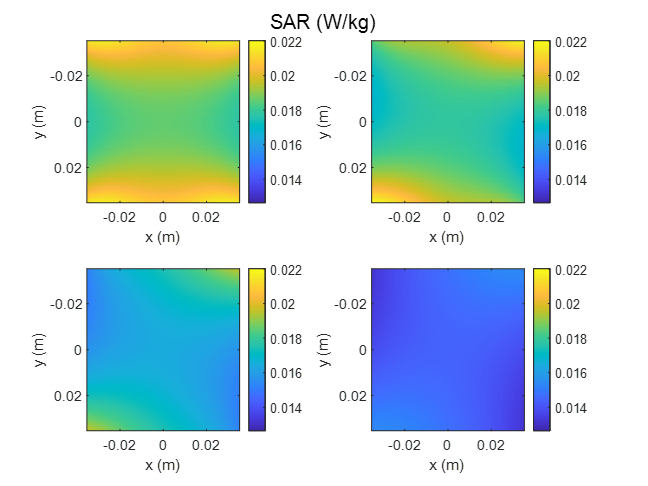
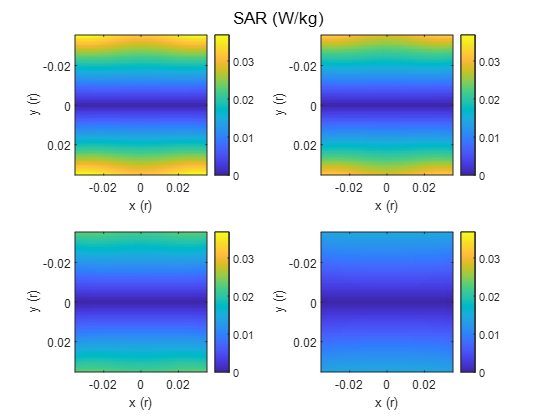
Final Changes 20092024

diff --git a/Chapters/ChapterCoils.tex b/Chapters/ChapterCoils.tex
@@ -122,10 +122,16 @@ The varying magnetic field gives rise to electric fields inside the tissue being
 Where $\sigma$ is the conductivity of the tissue. Modelling is important to ensure each coil built is safe to use with humans. The magnetic field can be modelled using the Biot-Savart law given as 
 
 \begin{equation}
-    \mathbf{B(r)} = \frac{\mu_0}{4\pi}\frac{\mathbf{J}dV \times \mathbf{r}}{|\mathbf{r}|^3}
+    \mathbf{B(r)} = \frac{\mu_0}{4\pi}\int_v\frac{\mathbf{J(\mathbf{r})} \times \mathbf{r}}{|\mathbf{r}|^3}dv
 \end{equation}
 
-Where $\mathbf{J}$ is the current density, $dV$ is the volume element from the coil and $\mathbf{r}$ is the position vector from $dV$. The electric field $E$ can then be calculated from the $A$ vector potential which is defined by the magnetic field $B$ being the curl of the vector potential ($\mathbf{B} = \nabla \times \mathbf{A}$). $E$ can then be found from $A$ following
+Where $\mathbf{J}$ is the current density, $dV$ is the volume element from the coil and $\mathbf{r}$ is the position vector from $dv$. The electric field $E$ can then be calculated from the $A$ vector potential which is defined by the magnetic field $B$ being the curl of the vector potential ($\mathbf{B} = \nabla \times \mathbf{A}$). $\mathbf{A}$ can therefore be analytically expressed as 
+
+\begin{equation}
+    \mathbf{A(r)} = \frac{\mu_0}{4\pi}\int_v \frac{\mathbf{J(r)}}{\mathbf{r}}dv
+\end{equation}
+
+$E$ can then be found from $A$ following
 
 \begin{equation}
     \mathbf{E} = -\frac{d\mathbf{A}}{dT}
@@ -156,8 +162,7 @@ After the building of each coil, the coil is placed around a phantom and spectra
 
 A surface coil is the simplest and most basic coil to design, where the coil often forms a simple circular loop. The magnetic field is largest on axis and decreases, with distance from the coil. Therefore the field is spatially inhomogeneous which is why this coil design is often used for non-localised spectroscopy, where the localisation of the signal is down to the placement of the coil. The penetration depth of the magnetic field for a surface coil is approximately equal to the diameter of the coil \cite{Gruber2018RFNonphysicists}, and therefore a surface coil is sensitive to regions closest to the coil. 
 
-
-The surface coils used for data collection were built for use in the study described in Chapter \ref{Chap:Lipid}. The first coil is a small 5 cm coil with two loops of copper wire with a tuning capacitance of 173.4 pF and a matching capacitance of 11 pF which is split over both wires of the loop to keep it balanced. The coil is made small to maximise the sensitivity to signal from subcutaneous fat in the calf. Maps for the $B_y, B_\rho, |E|$ and \ac{SAR} maps for this coil are shown in Fig. \ref{fig:coils:Calf_Maps}, the maximum \ac{SAR} of this coil was <20 W/kg. This was calculated assuming the target $B_1$ of 40 $\mu$T occurs 4 cm from coil on coil axis, and the conductivity ($\sigma$) of the muscle is 0.64 S/m.
+The surface coils used for data collection were built for use in the study described in Chapter \ref{Chap:Lipid}. The first coil is a small 5 cm coil with two loops of copper wire with a tuning capacitance of 173.4 pF and a matching capacitance of 11 pF which is split over both wires of the loop to keep it balanced. The coil is made small to maximise the sensitivity to signal from subcutaneous fat in the calf. Maps for the $B_y, B_\rho, |E|$ and \ac{SAR} maps for this coil are shown in Fig. \ref{fig:coils:Calf_Maps}, the maximum \ac{SAR} of this coil was $<$20 W/kg. This was calculated assuming the target $B_1$ of 40 $\mu$T occurs 4 cm from coil on coil axis, and the conductivity ($\sigma$) of the muscle is 0.64 S/m.
 
 \begin{figure}[H]
     \centering
@@ -166,7 +171,7 @@ The surface coils used for data collection were built for use in the study descr
     \label{fig:coils:Calf_Maps}
 \end{figure}
 
-The second coil is 12 cm in diameter and again made out of copper wire, and is designed for imaging the liver. This coil is larger so that the penetration depth is large enough to reach the liver. The coil is slightly curved in plane in order for the coil to sit closer to the liver on one side of the abdomen and is mounted onto a holder so that the coil can be rotated whilst still being attached to the scanner bed. Maps for the $B_y, B_\rho, |E|$ and \ac{SAR} maps for this coil are shown in Fig. \ref{fig:coils:Liver_Maps}, the maximum \ac{SAR} of this coil was <20 W/kg. This was calculated assuming the target $B_1$ of 40 $\mu$T occurs 4 cm from coil on coil axis, and the conductivity ($\sigma$) of the muscle is 0.64 S/m. These simulations were performed by Prof. Richard Bowtell.
+The second coil is 12 cm in diameter and again made out of copper wire, and is designed for imaging the liver. This coil is larger so that the penetration depth is large enough to reach the liver. The coil is slightly curved in plane in order for the coil to sit closer to the liver on one side of the abdomen and is mounted onto a holder so that the coil can be rotated whilst still being attached to the scanner bed. Maps for the $B_y, B_\rho, |E|$ and \ac{SAR} maps for this coil are shown in Fig. \ref{fig:coils:Liver_Maps}, the maximum \ac{SAR} of this coil was $<$20 W/kg. This was calculated assuming the target $B_1$ of 40 $\mu$T occurs 4 cm from coil on coil axis, and the conductivity ($\sigma$) of the muscle is 0.64 S/m. These simulations were performed by Prof. Richard Bowtell.
 
 \begin{figure}[H]
     \centering
@@ -207,7 +212,7 @@ Volumetric coils such as saddle coils have more homogeneous B$_1$ fields than su
     \label{fig:coils:3D_Saddle}
 \end{figure}
 
-The coil built for scanning in Chapter \ref{Chap:Quad} is made from copper tape and has an angular width of 120$^\circ$ a length of 16.8 cm and a diameter of 14.8 cm. Where the copper tape that links the two squares intersects/crosses over, an insulated wire is used to avoid a capacitor being created. Also, the wires here run close side by side so that the fields from the opposing currents will cancel. Diagrams of the circuit for the coil are shown in Figs. \ref{fig:coils:2D_Saddle} and \ref{fig:coils:3D_Saddle} with pictures in Fig. \ref{fig:coils:Saddle_pic}. The tuning capacitance is 47.3 pF, the total matching capacitance 8.8 pF. Simulations of the Biot-Savart equation were used to simulate the $B_x$ and $B_y$ components through the saddle coil. Plots of the $B_x$ and $B_y$ at four different planes along $z$ are shown in Fig. \ref{fig:coils:Saddle_BMap}, these were calculated by Prof. Richard Bowtell. The vector potential $A$ and therefore $E$ were also simulated to calculate \ac{SAR} values across the same axis, plots across four different planes along $z$ are then shown in Fig. \ref{fig:coils:Saddle_SAR}. The maximum \ac{SAR} value was found to be safe $<$ 9 W/kg. This is a different limit for the surface coils because this is a volume coil, assuming the weight of the calf takes up 5\% of the total body weight the limit here is 10 W/kg.
+The coil built for scanning in Chapter \ref{Chap:Quad} is made from copper tape and has an angular width of 120$^\circ$ a length of 16.8 cm and a diameter of 14.8 cm. Where the copper tape that links the two squares intersects/crosses over, an insulated wire is used to avoid a capacitor being created. Also, the wires here run close side by side so that the fields from the opposing currents will cancel. Diagrams of the circuit for the coil are shown in Figs. \ref{fig:coils:2D_Saddle} and \ref{fig:coils:3D_Saddle} with pictures in Fig. \ref{fig:coils:Saddle_pic}. The tuning capacitance is 47.3 pF, the total matching capacitance 8.8 pF. Simulations of the Biot-Savart equation were used to simulate the $B_x$ and $B_y$ components through the saddle coil. Plots of the $B_x$ and $B_y$ at four different planes along $z$ are shown in Fig. \ref{fig:coils:Saddle_BMap}, these were calculated by Prof. Richard Bowtell. The vector potential $A$ and therefore $E$ were also simulated to calculate \ac{SAR} values across the same axis, plots across four different planes along $z$ are then shown in Fig. \ref{fig:coils:Saddle_SAR}, which were calculated by the author. The maximum \ac{SAR} value was found to be safe $<$ 9 W/kg. These simulations were calculated assuming the target $B_1$ of 40 $\mu$T occurs at the centre of the coil axis, and the conductivity ($\sigma$) of the muscle is 0.64 S/m. This is a different limit for the surface coils because this is a volume coil, assuming the weight of the calf takes up 5\% of the total body weight the limit here is 10 W/kg.
 
 \begin{figure}[H]
     \centering
@@ -219,14 +224,14 @@ The coil built for scanning in Chapter \ref{Chap:Quad} is made from copper tape 
 \begin{figure}[H]
     \centering
     \includegraphics[width=0.85\linewidth]{Figures/Coils/Saddle_BMap.png}
-    \caption{\textit{Maps of the $B_x$ (a) and $B_y$ (b) components inside the saddle coil plotted against $x$ and $y$ covering the diameter of the coil. The planes are of the z direction at the centre of the coil (top left), 2/3 of the length of the coil (top right), 4/5 of the length of the coil (bottom left) and 19/20 down the length of the coil.}}
+    \caption{\textit{Maps of the $B_x$ (a) and $B_y$ (b) components inside the saddle coil plotted against $x$ and $y$ in units of radius. The planes are of the z direction at the centre of the coil (top left), 2/3 of the length of the coil (top right), 4/5 of the length of the coil (bottom left) and 19/20 down the length of the coil.}}
     \label{fig:coils:Saddle_BMap}
 \end{figure}
 
 \begin{figure}[H]
     \centering
     \includegraphics[width=0.9\linewidth]{Figures/Coils/Saddle_SAR.png}
-    \caption{\textit{Maps of the SAR magnitude measured in W/kg covering the diameter of the coil in the $x$ and $y$ direction. Top left is at the centre of the coil, top right is 2/3 down the length of the coil, bottom left 4/5 down the length of the coil and bottom right 19/20 down the length of the coil all in the z direction.}}
+    \caption{\textit{Maps of the SAR magnitude measured in W/kg inside the saddle coil plotted against $x$ and $y$ in units of the coil radius. Top left is at the centre of the coil, top right is 2/3 down the length of the coil, bottom left 4/5 down the length of the coil and bottom right 19/20 down the length of the coil all in the z direction.}}
     \label{fig:coils:Saddle_SAR}
 \end{figure}
 
